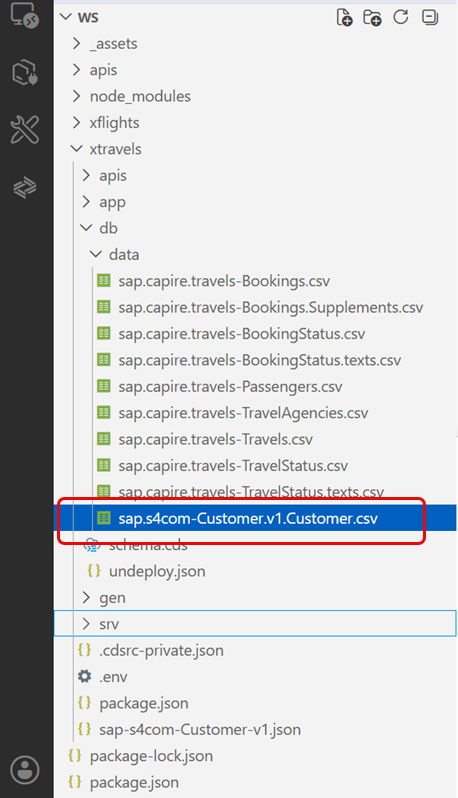
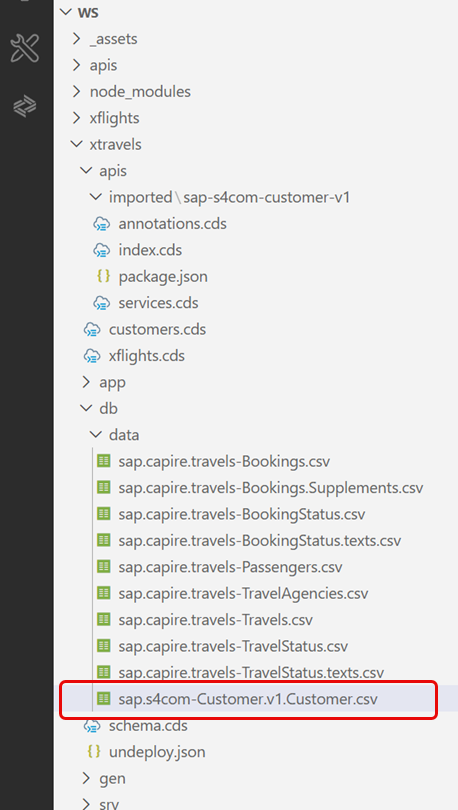
Add exercise steps for connection DP

diff --git a/exercises/ex4/README.md b/exercises/ex4/README.md
@@ -13,6 +13,20 @@ You will then replace local entity `Passenger` with entity `Customer` from the D
 <br>![](/exercises/ex4/images/04_00_0010.png)
 
 
+This session focuses on the CAP part of the integration with a BDC Data Product.
+Prior to the session, we have already
+* prepared a BDC tenant with the "Customer" Data Product installed
+* created a HANA Remote Source in the HANA instance, which points to the share (see also [assets/ex4/HANA-setup](../../assets/ex4/HANA-setup.md))
+* created a schema `DP_VT_CUSTOMER` in the HANA instance with virtual tables pointing
+  to the share tables in the BDC tenant.
+* prepared a user-provided service `grantor-dp-admin` in Cloud Foundry that holds credentials for accessing this schema.
+
+You will then deploy the database model of the xtravels app to HANA with the Data Product entity `Customer`
+in the CAP app to being connected to the corresponding virtual tables via a synonym.
+
+<br>![](/exercises/ex4/images/04_00_0020.png)
+
+
 ## Exercise 4.1 - Discovery
 
 After completing these steps, you will have found Data Product "Customer" from S/4
@@ -149,10 +163,21 @@ for entity `Customer` of the imported API.
       CityName as City,
       TelephoneNumber1 as PhoneNumber
     }
+
+    annotate Cust with @data.product: 'via-synonym'
+                       @cds.persistence.namingMode: 'quoted';
     ```
 
 You won't use the other entities of the Data Product in our xtravels app,
 thus you don't add consumption views for them.
+
+Note that this file does not only define a consumption view. It also
+adds two annotations to the imported service. They are necessary in order for
+the synonym plugin to handle this service:
+* `@data.product: 'via-synonym'` 
+* `@cds.persistence.namingMode: 'quoted'` tells the synonym plugin that the
+  synonym targets don't use the default CAP name mapping, but have case sensitive
+  database names.
 
 
 
@@ -193,10 +218,10 @@ because the xtravels app was from the beginning designed in such a way that
 entity `Passengers` can easily be replaced by the Data Product entity `Customers`.
 
 
-<!--
-## Exercise 4.6 - Mock
 
-After completing these steps, you will have run the xtravels app with
+## Exercise 4.6 - Local testing
+
+After completing these steps, you will have run the xtravels app locally with
 the Data Product entity `Customers` being mocked by a local table.
 
 Following the CAP principle of "local development and testing", you first
@@ -229,15 +254,75 @@ and is filled with the data from the csv file.
 
     <br>![](/exercises/ex4/images/04_06_0030.png)
 
-The app looks almost like the last time you have started it
-in [Exercise 2.5](../ex2/README.md#exercise-25---run-the-xtravels-app-with-flights-being-mocked).
-This time, however, you see different data for `Customer`, namely the test data you have just added via the csv file.
--->
+    The app looks almost like the last time you have started it.
+    <!-- in [Exercise 2.5](../ex2/README.md#exercise-25---run-the-xtravels-app-with-flights-being-mocked). -->
+    This time, however, you see different data for `Customer`, namely the test data you have just added via the csv file.
+
+6. Stop cds watch in the xtravels terminal by typing `Ctrl+C`.
+
+## Exercise 4.7 - Deploy to HANA
+
+After completing these steps, you will have deployed the xtravels app to HANA.
+Customer information is read via synonyms from the virtual tables pointing to the
+BDC shares.
+
+1. Before we actually deploy to HANA, run this command in the xtravels terminal:
+    ```sh
+    cds build --for hana
+    ```
+    Have a look at the generated HDI files in folder _xtravels/gen/db_. There now is a bunch of files for
+    the imported Customer service:
+    ```txt
+    gen/db
+    ├── cfg/gen
+    |   ├── ...
+    |   └── sap.s4com.Customer.v1.hdbsynonymconfig
+    └── src/gen
+        ├── ...
+        ├── sap.s4com.Customer.v1.Customer.hdbview
+        ├── sap.s4com.Customer.v1.Customer#mock.hdbtable
+        ├── ...
+        ├── sap.s4com.Customer.v1.hdbgrants
+        └── sap.s4com.Customer.v1.hdbsynonym
+    ```
+
+2. Replace the content of file _xtravels/.env_ with
+    ```txt
+    TARGET_CONTAINER=db
+    SERVICE_REPLACEMENTS='[{"key":"sap.capire.flights.data_syn","service":"xflights-db"},{"key":"sap.s4com.Customer.v1","service":"grantor-dp-admin"}]'
+    ```
+    This adds another service replacements, where we map the logical service name `sap.s4com.Customer.v1`to
+    the physical name `grantor-dp-admin`.
+
+3. In the xtravels terminal, execute
+    ```sh
+    cds bind --to grantor-dp-admin
+    ```
+    Now the xtravels app is bound to the service.
+
+4. In the xtravels terminal, execute
+    ```sh
+    cds deploy --to hana --resolve-bindings --profile hybrid
+    ```
+    This re-deploys the database part of xtravels to HANA, this time including all the artifacts
+    for the `Customer` service.
+
+5. Start the app in hybrid mode. In the xtravels terminal, run
+    ```sh
+    cds watch --profile hybrid
+    ```
+
+6. Go to the [xtravels web app](http://localhost:4004/travels/webapp/index.html).
+
+    <br>![](/exercises/ex4/images/04_07_0010.png)
+
+    Look at the data. You will notice that the customer data (names, address, ...) has changed, because you
+    no longer see the local mock data, but the data from the Data Product in the BDC tenant.
+
+
 
 ## Summary
 
-You've now consumed the metadata of a DBC Data Product and incorporated it into
-the xtravels model.
-In the next exercise we use Data Federation via synonyms to connect to the data.
-
-Continue to ... to come ...
+You've now consumed a DBC Data Product, incorporated it into the xtravels model
+and used the synonym plugin to connect your local entities to the virtual tables
+pointing to the BDC data.

diff --git a/exercises/ex3/README.md b/exercises/ex3/README.md
@@ -101,7 +101,7 @@ After completing these steps, you will have deployed the database model of the x
 
 1. Install the synonym plugin. In the xflights terminal, execute
     ```sh
-    npm install <add link once published>
+    npm install git+https://github.com/cap-js/cds-federation-synonyms.git
     ```
 
 2. In the xflights terminal, execute
@@ -179,7 +179,7 @@ After completing these steps, the xtravels app is ready to be deployed to HANA.
 
 1. Install the synonym plugin. In the xtravels terminal, execute
     ```sh
-    npm install <add link once published>
+    npm install git+https://github.com/cap-js/cds-federation-synonyms.git
     ```
 
 2. In the xtravels terminal, execute